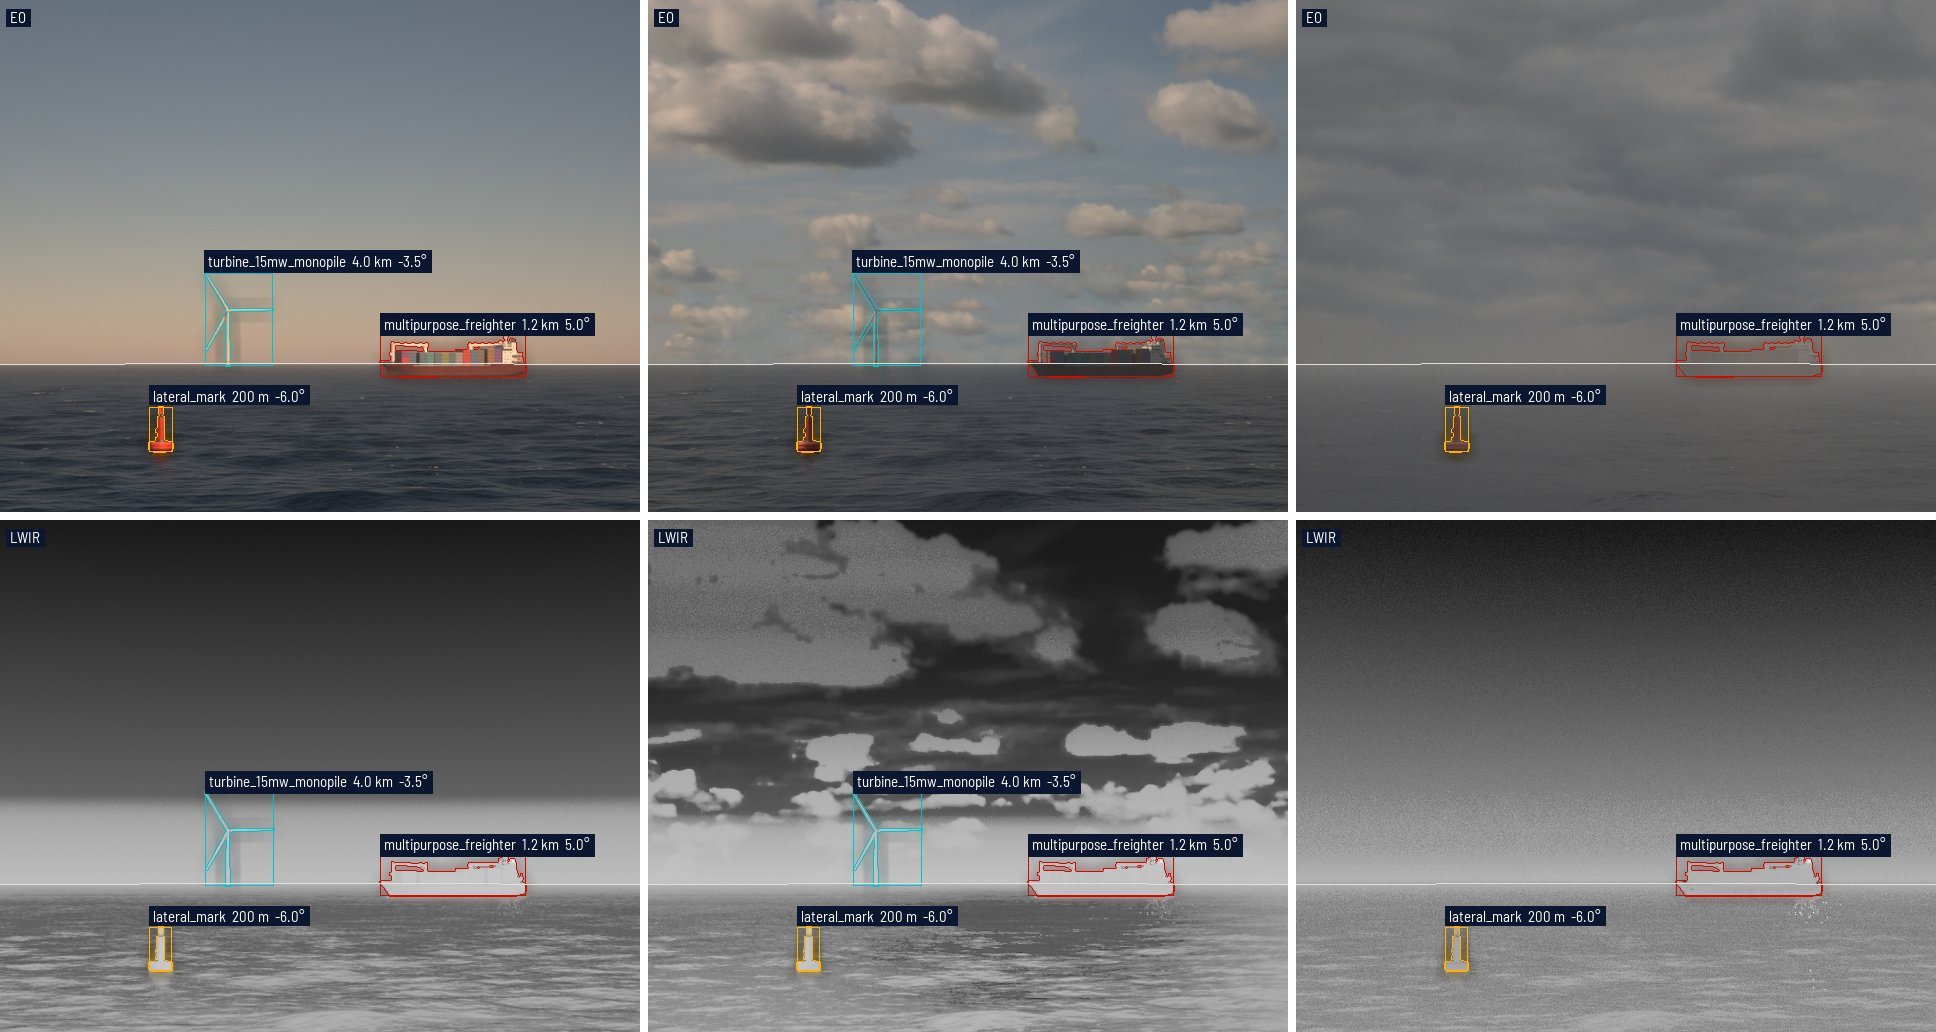
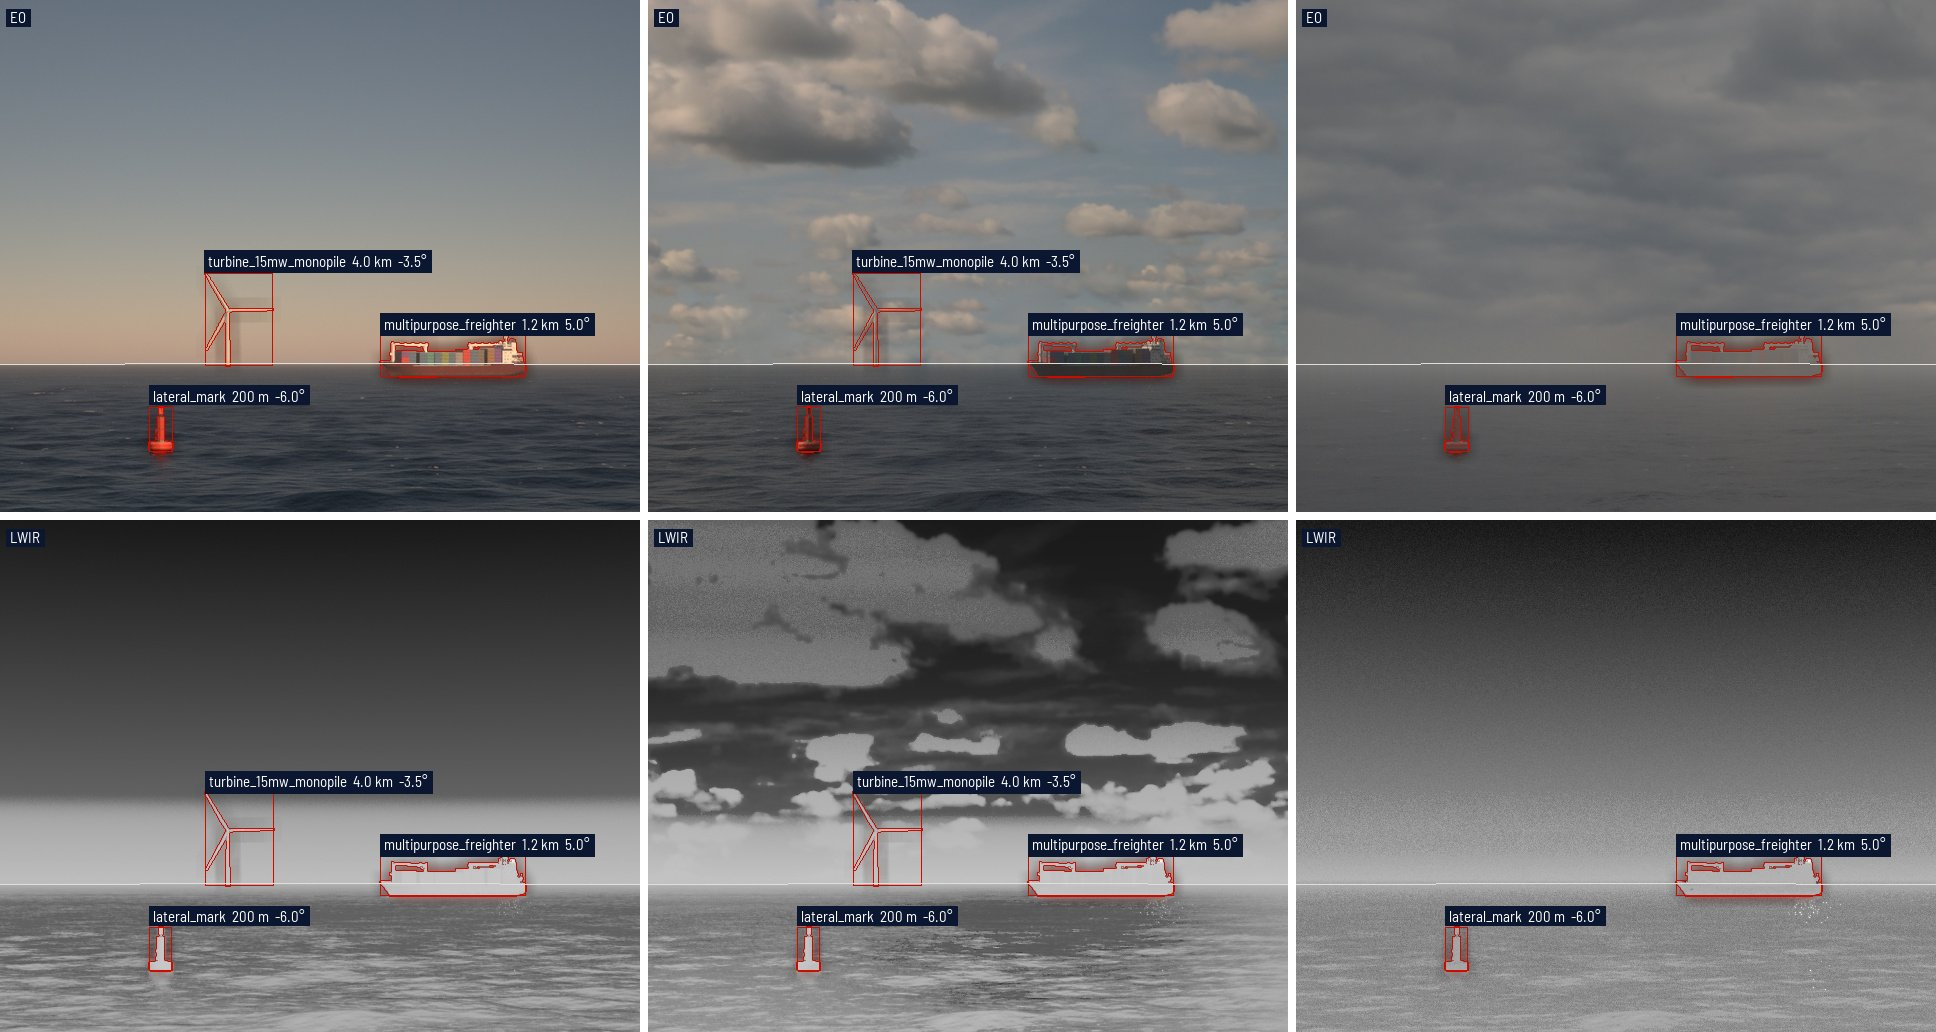
fix: keep supervision out of what the tests import
`docs/hero.py` imported it at the top, so `tests/test_docs.py` and
`tests/test_config.py` failed to collect. The drawing moves to
`docs/outline.py`, in Focus Red.

diff --git a/docs/hero.py b/docs/hero.py
@@ -9,12 +9,9 @@ import sys
 import tempfile
 from pathlib import Path
 
-import cv2
-import numpy as np
-import supervision as sv
 from PIL import Image, ImageDraw
 
-from docs.brand import FOG_WHITE, MASK_COLOURS, NIGHT_BLUE, font
+from docs.brand import FOG_WHITE, NIGHT_BLUE, font
 
 SCENARIO = Path(__file__).with_name("hero.toml")
 SKIES = {
@@ -46,58 +43,6 @@ def captioned(img: Image.Image, text: str, size: int = 15) -> Image.Image:
     return img
 
 
-def masks(
-    image: dict,
-    annotations: list[dict],
-    box: tuple[float, float, float, float],
-    size: tuple[int, int],
-) -> np.ndarray:
-    """Each mask, cropped to `box` and resized to `size`."""
-    resolution = (image["width"], image["height"])
-    return np.stack(
-        [
-            np.asarray(
-                Image.fromarray(
-                    sv.rle_to_mask(a["segmentation"]["counts"], resolution).astype(
-                        np.uint8
-                    )
-                    * 255
-                ).resize(size, Image.Resampling.BILINEAR, box=box)
-            )
-            > 127
-            for a in annotations
-        ]
-    )
-
-
-def outlined(pic: np.ndarray, found: sv.Detections) -> np.ndarray:
-    """`pic` with each target haloed, boxed and outlined, one colour per target."""
-    colours = sv.ColorPalette.from_hex(MASK_COLOURS)
-    by_index = sv.ColorLookup.INDEX
-    grown = sv.Detections(
-        xyxy=found.xyxy,
-        mask=np.stack(
-            [cv2.dilate(m.view(np.uint8), np.ones((3, 3))) > 0 for m in found.mask]
-        ),
-    )
-    pic = sv.HaloAnnotator(
-        color=colours, opacity=0.6, kernel_size=25, color_lookup=by_index
-    ).annotate(pic, found)
-    pic = sv.PolygonAnnotator(
-        color=colours, thickness=1, color_lookup=by_index
-    ).annotate(pic, grown)
-    return sv.BoxAnnotator(color=colours, thickness=1, color_lookup=by_index).annotate(
-        pic, found
-    )
-
-
-def lit(img: Image.Image, found: np.ndarray) -> Image.Image:
-    """`img` with the targets in `found` drawn on."""
-    detections = sv.Detections(xyxy=sv.mask_to_xyxy(found), mask=found)
-    pic = outlined(np.asarray(img)[..., ::-1].copy(), detections)
-    return Image.fromarray(pic[..., ::-1])
-
-
 def frame(
     run: Path,
     image: dict,
@@ -113,6 +58,8 @@ def frame(
     box = (left, top, left + width, top + height)
     img = img.resize(size, Image.Resampling.LANCZOS, box=box)
     if annotations:
+        from docs.outline import lit, masks
+
         img = lit(img, masks(image, annotations, box, size))
     draw = ImageDraw.Draw(img)
 

diff --git a/docs/outline.py b/docs/outline.py
@@ -1,0 +1,61 @@
+"""Draws labels.json's masks on a frame; run through `uv run --with supervision`."""
+
+import cv2
+import numpy as np
+import supervision as sv
+from PIL import Image
+
+from docs.brand import FOCUS_RED
+
+
+def masks(
+    image: dict,
+    annotations: list[dict],
+    box: tuple[float, float, float, float],
+    size: tuple[int, int],
+) -> np.ndarray:
+    """Each mask, cropped to `box` and resized to `size`."""
+    resolution = (image["width"], image["height"])
+    return np.stack(
+        [
+            np.asarray(
+                Image.fromarray(
+                    sv.rle_to_mask(a["segmentation"]["counts"], resolution).astype(
+                        np.uint8
+                    )
+                    * 255
+                ).resize(size, Image.Resampling.BILINEAR, box=box)
+            )
+            > 127
+            for a in annotations
+        ]
+    )
+
+
+def outlined(pic: np.ndarray, found: sv.Detections) -> np.ndarray:
+    """`pic` with each target haloed, boxed and outlined."""
+    red = sv.Color.from_hex(FOCUS_RED)
+    # `found` carries no class ids, which the default lookup needs.
+    by_index = sv.ColorLookup.INDEX
+    grown = sv.Detections(
+        xyxy=found.xyxy,
+        mask=np.stack(
+            [cv2.dilate(m.view(np.uint8), np.ones((3, 3))) > 0 for m in found.mask]
+        ),
+    )
+    pic = sv.HaloAnnotator(
+        color=red, opacity=0.6, kernel_size=25, color_lookup=by_index
+    ).annotate(pic, found)
+    pic = sv.PolygonAnnotator(color=red, thickness=1, color_lookup=by_index).annotate(
+        pic, grown
+    )
+    return sv.BoxAnnotator(color=red, thickness=1, color_lookup=by_index).annotate(
+        pic, found
+    )
+
+
+def lit(img: Image.Image, found: np.ndarray) -> Image.Image:
+    """`img` with the targets in `found` drawn on."""
+    detections = sv.Detections(xyxy=sv.mask_to_xyxy(found), mask=found)
+    pic = outlined(np.asarray(img)[..., ::-1].copy(), detections)
+    return Image.fromarray(pic[..., ::-1])

diff --git a/docs/masks.py b/docs/masks.py
@@ -11,7 +11,8 @@ import numpy as np
 import supervision as sv
 from PIL import Image
 
-from docs.hero import GAP_PX, SCENARIO, captioned, outlined, render
+from docs.hero import GAP_PX, SCENARIO, captioned, render
+from docs.outline import outlined
 from seascape.outputs import labels
 
 PANEL_PX = (640, 480)

diff --git a/docs/brand.py b/docs/brand.py
@@ -10,8 +10,6 @@ OCEAN_TEAL = "#06404C"
 SKY_GREY = "#7B9194"
 FOG_WHITE = "#DFDED9"
 FONT = "Barlow Semi Condensed"
-# One per target; red alone hides on a white hull.
-MASK_COLOURS = [FOCUS_RED, "#FFB000", "#00C2D1"]
 
 
 @functools.cache
